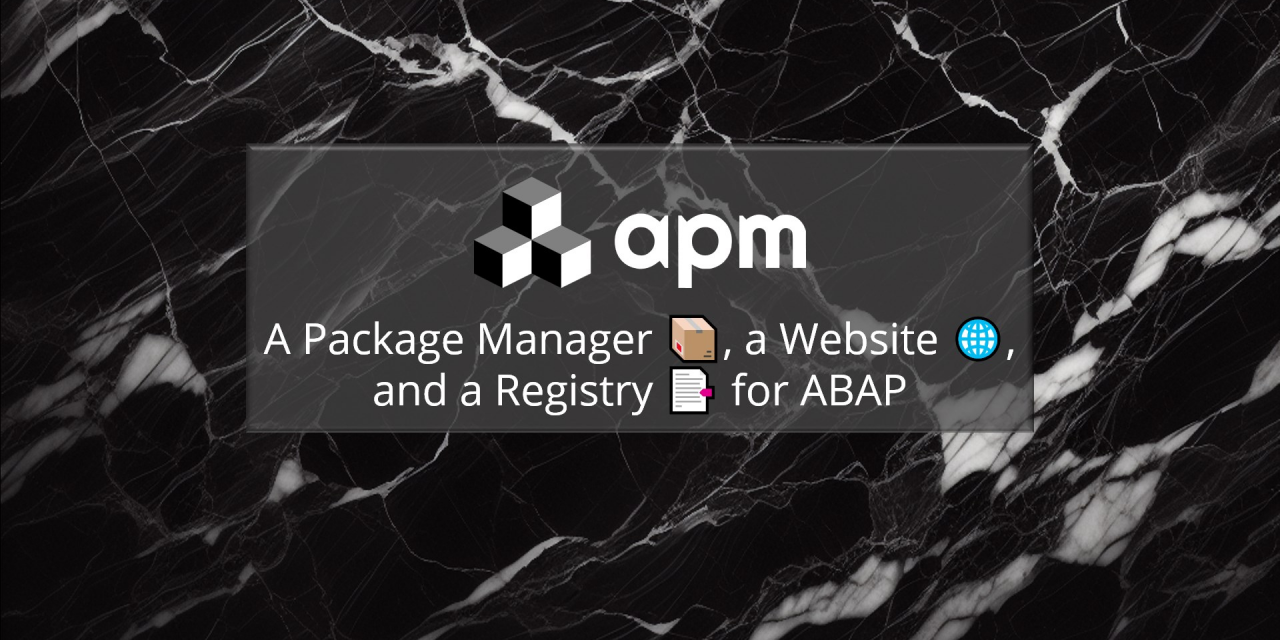
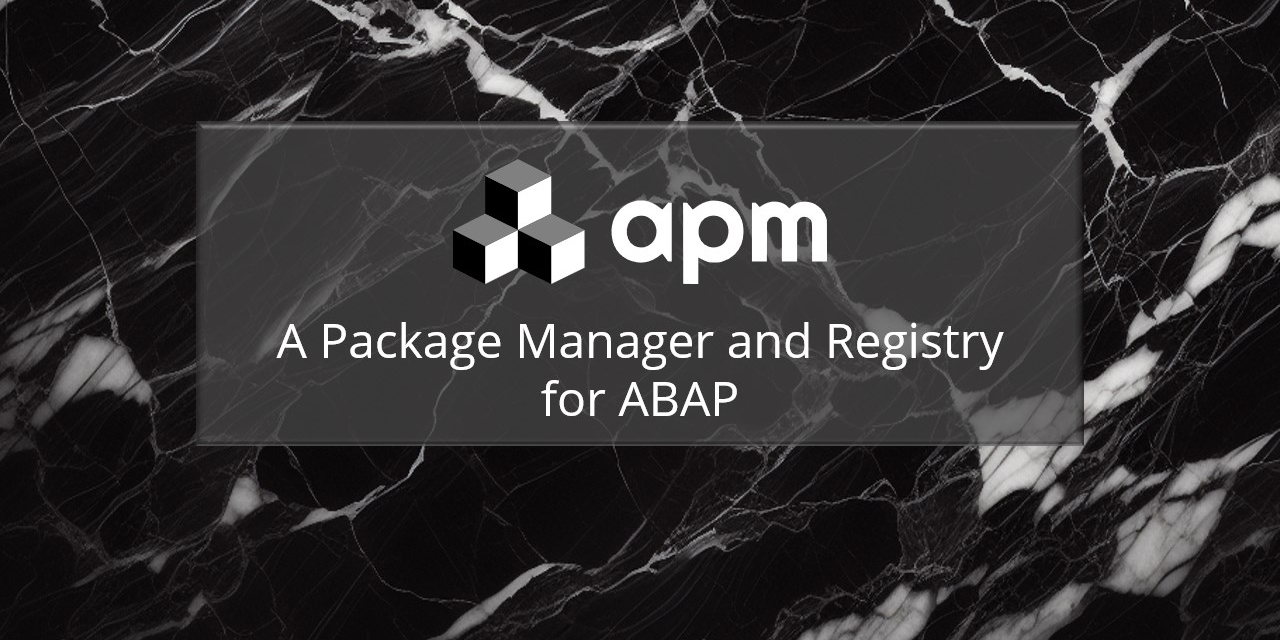
chore: update social preview and footer

diff --git a/abappm/conf/apm.js b/abappm/conf/apm.js
@@ -17,7 +17,7 @@ if (window.location.hostname.includes('playground.abappm.com')) {
     '@type': 'WebSite',
     name: 'apm Registry',
     url: 'https://registry.abappm.com/',
-    description: 'apm - A Package Manager 📦, a Website 🌐, and a Registry 📑 for ABAP',
+    description: 'apm - A Package Manager and Registry for ABAP',
     publisher: {
       '@type': 'Organization',
       name: 'apm.to Inc.',
@@ -133,7 +133,7 @@ var apmFooterHtml = `
       <div>
         <h4 class="apm-footer-heading">Product</h4>
         <ul class="apm-footer-links">
-          <li><a href="https://github.com/abappm/abappm" target="_blank" rel="noopener noreferrer">apm Client</a></li>
+          <li><a href="https://github.com/abappm/abappm" target="_blank" rel="noopener noreferrer">apm ABAP Client</a></li>
           <li><a href="https://registry.abappm.com" target="_blank" rel="noopener noreferrer">apm Registry</a></li>
           <li><a href="https://docs.abappm.com" target="_blank" rel="noopener noreferrer">apm Documentation</a></li>
         </ul>
@@ -142,7 +142,7 @@ var apmFooterHtml = `
         <h4 class="apm-footer-heading">Company</h4>
         <ul class="apm-footer-links">
           <li><a href="https://abappm.com/about" target="_blank" rel="noopener noreferrer">About</a></li>
-          <li><a href="https://github.com/abappm/abappm" target="_blank" rel="noopener noreferrer">GitHub</a></li>
+          <li><a href="https://github.com/abappm" target="_blank" rel="noopener noreferrer">GitHub</a></li>
           <li><a href="https://status.abappm.com" target="_blank" rel="noopener noreferrer">Status</a></li>
         </ul>
       </div>
@@ -151,7 +151,7 @@ var apmFooterHtml = `
         <ul class="apm-footer-links">
           <li><a href="mailto:hello@mail.abappm.com" target="_blank" rel="noopener noreferrer">Email</a></li>
           <li><a href="https://bsky.app/profile/apm.to" target="_blank" rel="noopener noreferrer">Bluesky</a></li>
-          <li><a href="https://www.linkedin.com/company/apm.to" target="_blank" rel="noopener noreferrer">LinkedIn</a></li>
+          <li><a href="https://www.linkedin.com/company/apm-to/" target="_blank" rel="noopener noreferrer">LinkedIn</a></li>
         </ul>
       </div>
     </div>
